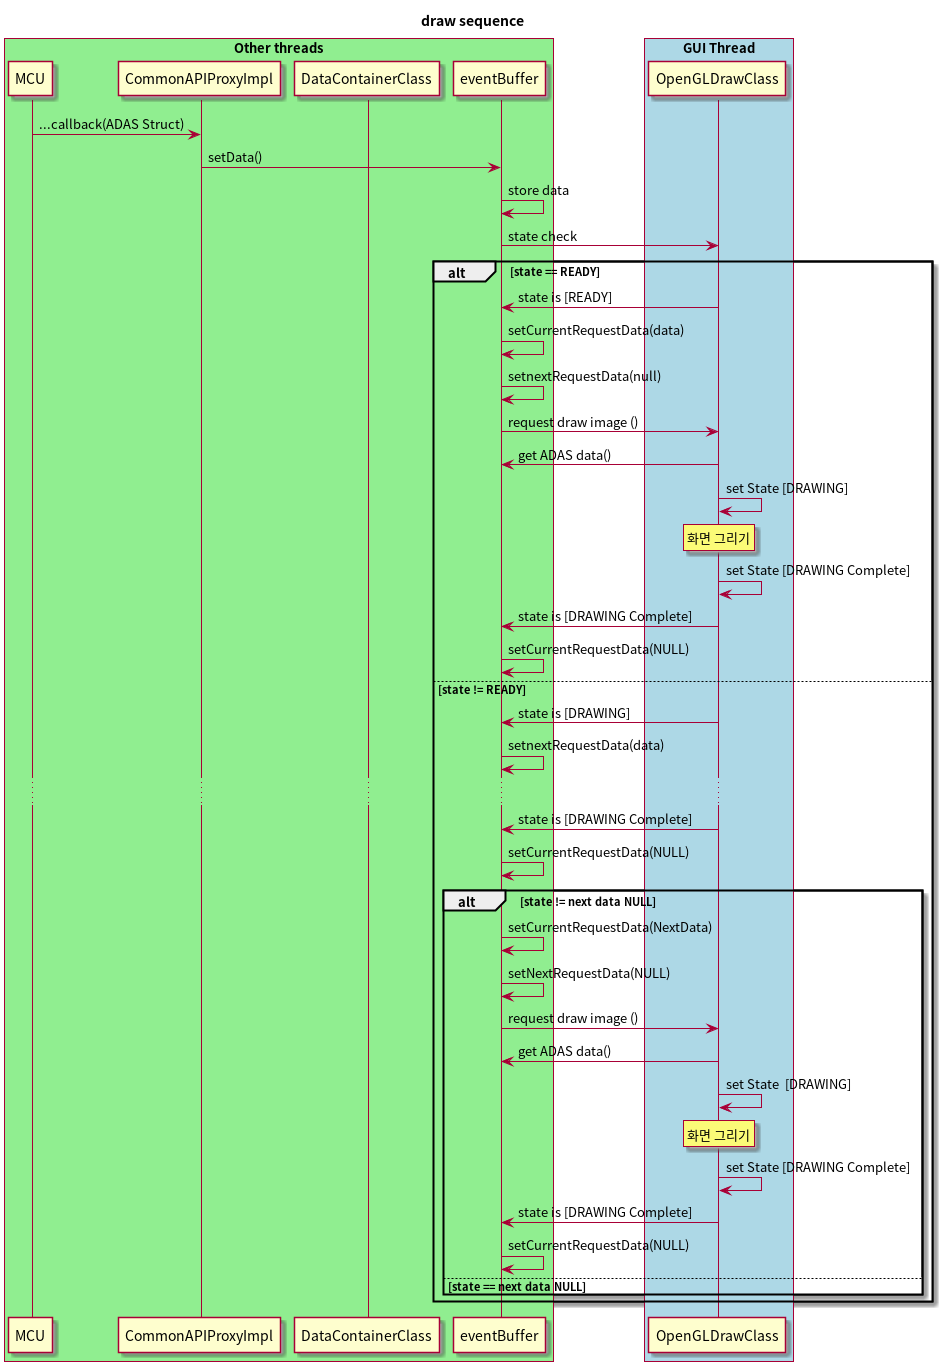
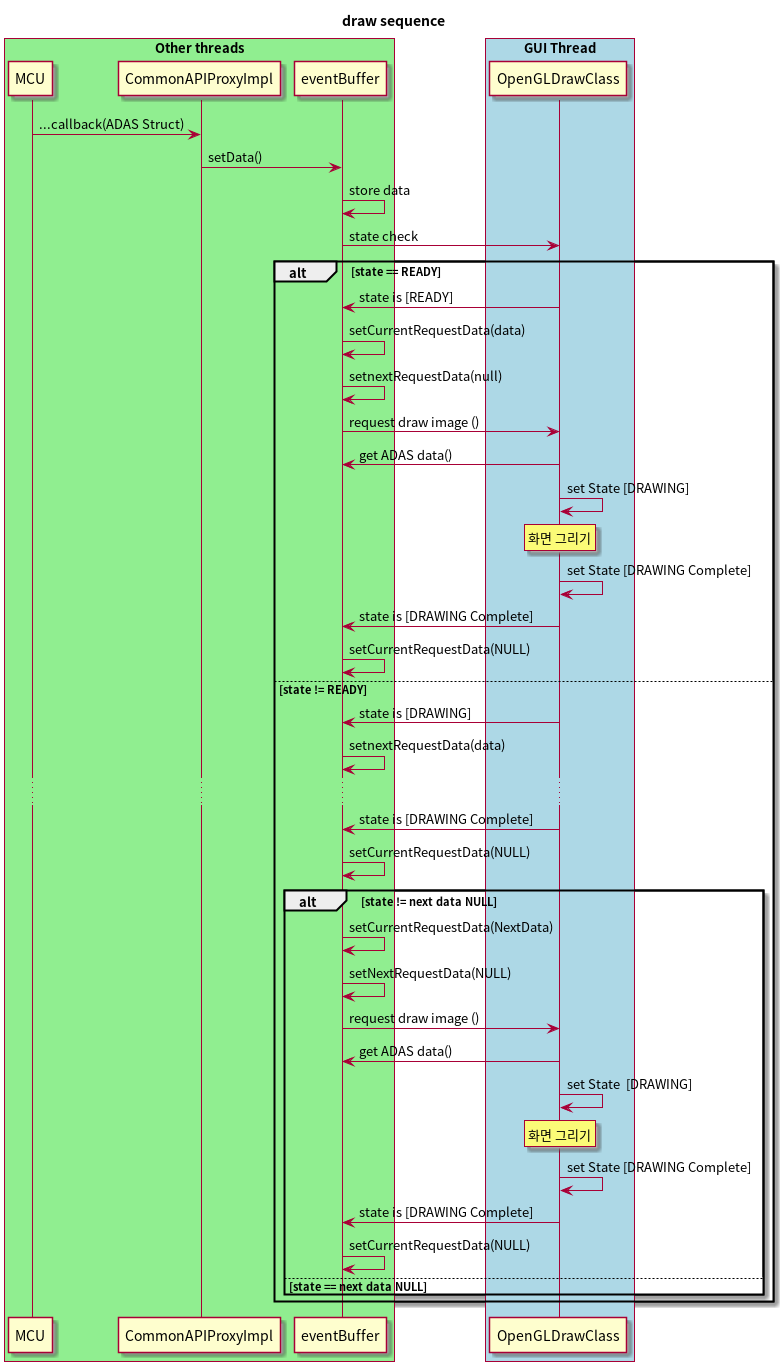
[CommonAPI] Update EventBuffer API
[ISSUE] N/A
[DESC] EventBuffer에서 필요한 API 선정

Changed region(s): [[0.0, 0.0, 1.0, 1.0], [0.0, 0.5816, 0.0918, 1.0], [0.7347, 0.1531, 0.7653, 0.1837]]

diff --git a/ProxyImpl/ADASEventBuffer.h b/ProxyImpl/ADASEventBuffer.h
@@ -1,0 +1,54 @@
+#ifndef ADASEVENTBUFFER_H
+#define ADASEVENTBUFFER_H
+
+#include "../ProxyImpl/ADASTypes.h"
+#include "v1/proj/dcluster/McuManager/McuManagerProxy.hpp"
+#include <QObject>
+#include <QSharedPointer>
+using MCUManagerType = v1::proj::dcluster::McuManager::McuManagerTypes;
+
+class ADASEventBuffer : public QObject {
+
+    Q_OBJECT
+
+public:
+    static QSharedPointer<ADASEventBuffer> instance();
+
+    ~ADASEventBuffer();
+
+    void init();
+
+    //whith CommonAPI : [ this <- commonAPI ]
+    void setAdasInfo(const MCUManagerType::StAdasInfo& adasInfo);
+
+    //whith GL : [ this <- GL ]
+    void getAdasInfo(MCUManagerType::StAdasInfo* adasInfo);
+
+    //whith GL : [this -> GL]
+    void requestGLState(); // signal
+
+private:
+    explicit ADASEventBuffer(QObject* parent = Q_NULLPTR);
+
+    void setCurrentADASInfo(const MCUManagerType::StAdasInfo& currentData);
+    MCUManagerType::StAdasInfo& getCurrentADASInfo();
+
+    void setNextADASInfo(const MCUManagerType::StAdasInfo& currentData);
+    MCUManagerType::StAdasInfo& getNextADASInfo();
+
+    void clearCurrentData();
+    void clearNextData();
+
+private:
+    MCUManagerType::StAdasInfo mCurrentADASInfo; // drawing data
+    MCUManagerType::StAdasInfo mNextADASInfo; // buffer & draw wait data
+
+signals:
+    void signalRequestGLState();
+    void signalRequestGLDraw();
+
+public slots:
+    void slotReceivedGLState(ADAS_GL_STATE state); // get value
+};
+
+#endif // ADASEVENTBUFFER_H

diff --git a/ProxyImpl/ADASEventBuffer.cpp b/ProxyImpl/ADASEventBuffer.cpp
@@ -1,0 +1,29 @@
+#include "ADASEventBuffer.h"
+
+static QSharedPointer<ADASEventBuffer> gADASEventBufferIstance;
+
+QSharedPointer<ADASEventBuffer> ADASEventBuffer::instance()
+{
+    if (gADASEventBufferIstance.isNull()) {
+        gADASEventBufferIstance = QSharedPointer<ADASEventBuffer>(new ADASEventBuffer());
+    }
+
+    return gADASEventBufferIstance;
+}
+
+ADASEventBuffer::~ADASEventBuffer()
+{
+}
+
+void ADASEventBuffer::init()
+{
+    //Register enum
+    qRegisterMetaType<ADAS_GL_STATE>("ADAS_GL_STATE");
+
+    //TODO (LYWOO) : connected
+}
+
+ADASEventBuffer::ADASEventBuffer(QObject* parent)
+    : QObject(parent)
+{
+}

diff --git a/ProxyImpl/ADASTypes.h b/ProxyImpl/ADASTypes.h
@@ -1,0 +1,14 @@
+#ifndef ADASTYPES_H
+#define ADASTYPES_H
+enum class ADAS_GL_STATE {
+    ADAS_GL_NONE = 0, /* The Input is invalid */
+    ADAS_GL_INIT,
+    ADAS_GL_READ,
+    ADAS_GL_ON,
+    ADAS_GL_OFF,
+    ADAS_GL_DRAWING,
+    ADAS_GL_DRAW_COMPLETE,
+    ADAS_GL_MAX
+};
+
+#endif // ADASTYPES_H
